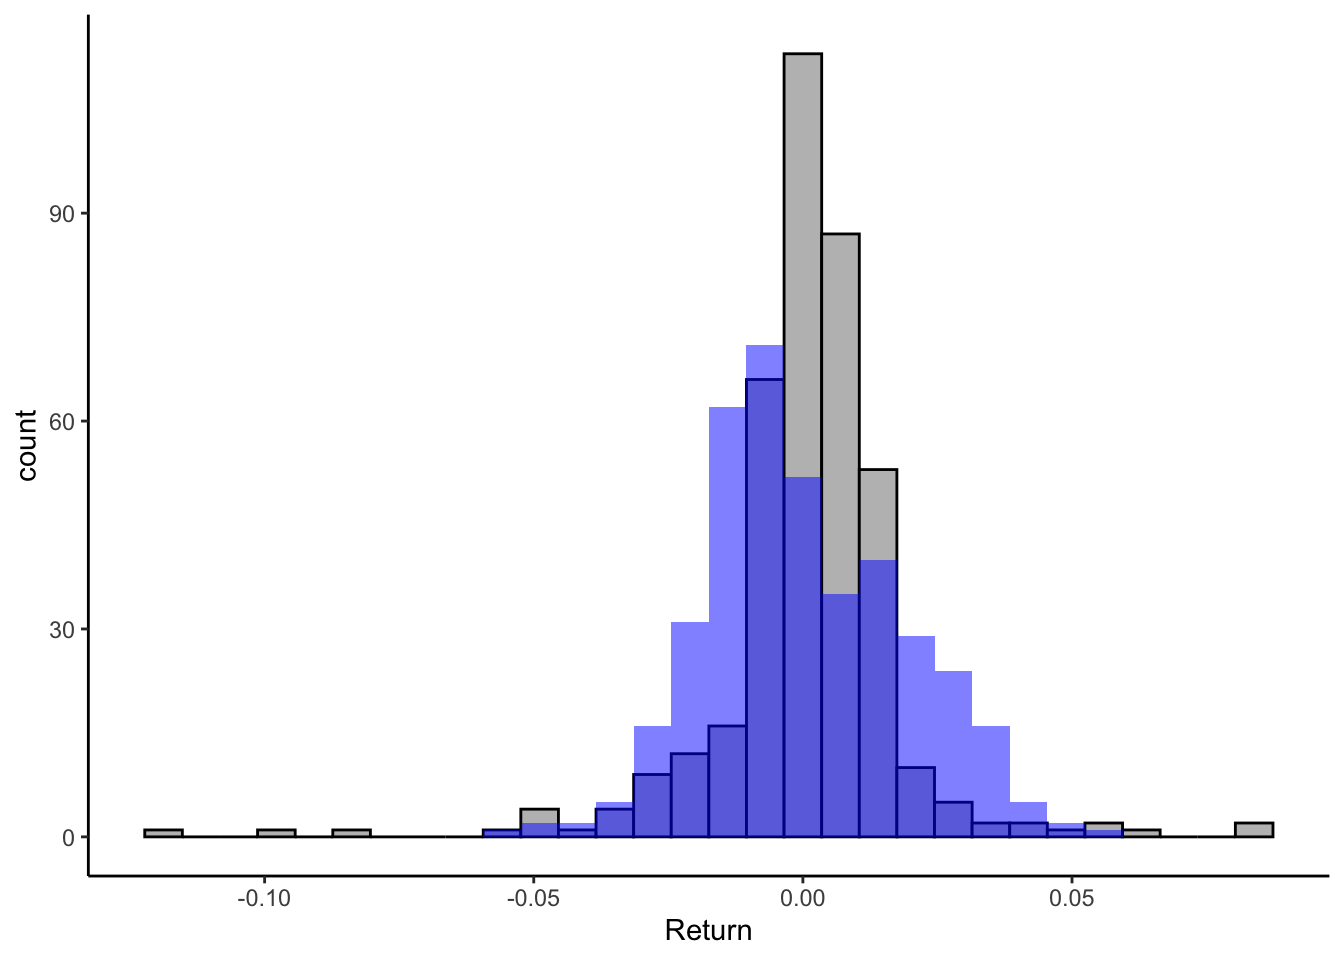
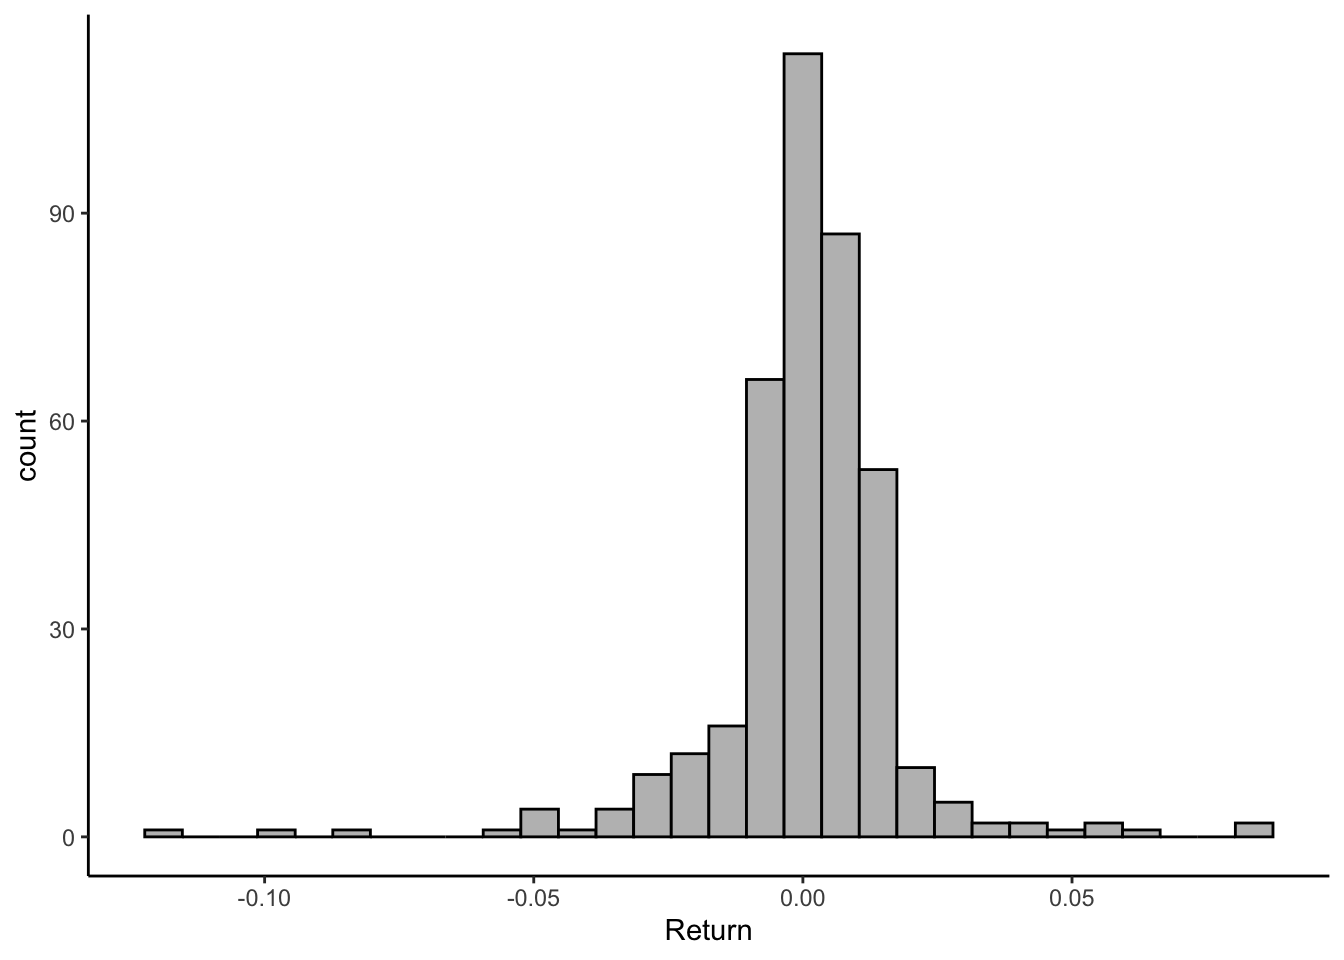
changes

Changed region(s): [[0.3438, 0.3438, 0.8438, 0.875]]

diff --git a/docs/Tools.html b/docs/Tools.html
@@ -288,7 +288,7 @@ window.Quarto = {
 
 
 <p>Business simulation is a type of computer-based modeling that allows us to experiment and analyze different business scenarios and strategies. Its appeal comes from being a cost-effective way to explore and test business decisions in production, marketing, finance, and operations, among many others.</p>
-<p>We will be using R to conduct business simulation. However, before building our simulation models, we must learn the tools to perform the analysis. In this module, we’ll learn how to store data in R, generate random numbers, use loops and conditionals to simulate real data.</p>
+<p>We will be using R to conduct business simulation. Before we can build our simulation models, we must learn the tools to perform the analysis. In this module, we’ll learn how to store data in R, generate random numbers, use loops and conditionals, and transform vectors to simulate real data.</p>
 <section id="storing-our-data-in-r" class="level2" data-number="2.1">
 <h2 data-number="2.1" class="anchored" data-anchor-id="storing-our-data-in-r"><span class="header-section-number">2.1</span> Storing Our Data in R</h2>
 <p>Objects, vectors, and data frames are all critical in the R programming language. They are helpful when storing and manipulating data in R. An <strong>object</strong> is a container for storing data and computations in R. It can store something as simple as a single integer or as informative as the output in regression analysis. The code below creates an object <em>x</em> that stores the number <span class="math inline">\(5\)</span>.</p>
@@ -392,11 +392,11 @@ window.Quarto = {
 <span id="cb5-5"><a href="#cb5-5" aria-hidden="true" tabindex="-1"></a>           <span class="at">Demand=</span><span class="fu">rbinom</span>(<span class="dv">5</span>,<span class="dv">100</span>,<span class="fl">0.7</span>)))</span></code><button title="Copy to Clipboard" class="code-copy-button"><i class="bi"></i></button></pre></div>
 <div class="cell-output cell-output-stdout">
 <pre><code>              Books Price Demand
-1      Frankenstein  9.50     71
-2           Dracula  5.78     73
-3         Moby Dick  6.34     73
-4 War Of The Worlds  5.67     75
-5           Beowulf  2.45     71</code></pre>
+1      Frankenstein  9.50     74
+2           Dracula  5.78     75
+3         Moby Dick  6.34     70
+4 War Of The Worlds  5.67     70
+5           Beowulf  2.45     67</code></pre>
 </div>
 </div>
 <p>The demand for the book is generated using the <code>rbinom()</code> function. The first input of the <code>rbinom()</code> function specifies how many random numbers are needed (<span class="math inline">\(5\)</span>), the second one specifies the number of trials in the experiment (<span class="math inline">\(100\)</span>), and the last one specifies the probability of success (<span class="math inline">\(0.7\)</span>). The bookstore can now assess the Monster Series’s revenues with these demands.</p>
@@ -413,20 +413,20 @@ window.Quarto = {
 <span id="cb7-5"><a href="#cb7-5" aria-hidden="true" tabindex="-1"></a>  <span class="fu">print</span>(Revenue)</span>
 <span id="cb7-6"><a href="#cb7-6" aria-hidden="true" tabindex="-1"></a>}</span></code><button title="Copy to Clipboard" class="code-copy-button"><i class="bi"></i></button></pre></div>
 <div class="cell-output cell-output-stdout">
-<pre><code>[1] 693.5
-[1] 693.5 462.4
-[1] 693.50 462.40 450.14
-[1] 693.50 462.40 450.14 453.60
-[1] 693.50 462.40 450.14 453.60 171.50</code></pre>
+<pre><code>[1] 627
+[1] 627.0 346.8
+[1] 627.00 346.80 424.78
+[1] 627.00 346.80 424.78 385.56
+[1] 627.00 346.80 424.78 385.56 191.10</code></pre>
 </div>
 </div>
 <p>The code above starts by creating an empty vector to store the revenue generated by each book. A for loop is then used to simulate the revenue for each book. The process starts by taking the first price in the <em>MS$Price</em> vector and multiplying it with a single random number drawn from the binomial distribution with <span class="math inline">\(100\)</span> trials and probability <span class="math inline">\(0.7\)</span> (our simulated demand). Note how the code combines the <em>Revenue</em> vector with the revenue generated by the simulation in the code <code>c(Revenue, i*rbinom(1,100,0.7)</code>. This process is repeated for every number in the <em>MS$Price</em> vector, leading to a final vector with each book’s revenues.</p>
-<p>Note that we can avoid the use of the for loop by combining he Demand and Price vectors. Generally speaking, <strong>vectorization</strong> allows us to perform an operation to the entire vector at once, rather than having to iterate through each element one by one. When possible try to vectorize the problem as this operation is more efficient than using for loops.</p>
+<p>We can avoid the use of the for loop by combining the Demand and Price vectors. Generally speaking, <strong>vectorization</strong> allows us to perform an operation to the entire vector at once, rather than having to iterate through each element one by one. When possible try to vectorize the problem as this operation is more efficient than using for loops.</p>
 <div class="cell">
 <div class="sourceCode cell-code" id="cb9"><pre class="sourceCode r code-with-copy"><code class="sourceCode r"><span id="cb9-1"><a href="#cb9-1" aria-hidden="true" tabindex="-1"></a>Revenue<span class="ot">&lt;-</span>MS<span class="sc">$</span>Demand<span class="sc">*</span>MS<span class="sc">$</span>Price</span>
 <span id="cb9-2"><a href="#cb9-2" aria-hidden="true" tabindex="-1"></a>Revenue</span></code><button title="Copy to Clipboard" class="code-copy-button"><i class="bi"></i></button></pre></div>
 <div class="cell-output cell-output-stdout">
-<pre><code>[1] 674.50 421.94 462.82 425.25 173.95</code></pre>
+<pre><code>[1] 703.00 433.50 443.80 396.90 164.15</code></pre>
 </div>
 </div>
 </section>
@@ -447,10 +447,10 @@ window.Quarto = {
 <span id="cb11-10"><a href="#cb11-10" aria-hidden="true" tabindex="-1"></a></span>
 <span id="cb11-11"><a href="#cb11-11" aria-hidden="true" tabindex="-1"></a><span class="fu">print</span>(demand)</span></code><button title="Copy to Clipboard" class="code-copy-button"><i class="bi"></i></button></pre></div>
 <div class="cell-output cell-output-stdout">
-<pre><code>[1] 88 94 79 71 76</code></pre>
+<pre><code>[1] 91 91 70 67 66</code></pre>
 </div>
 </div>
-<p>In the code above, the inner conditional checks whether the titles are either Frankenstein or Dracula. If so, the random binomial number is drawn with the probability <span class="math inline">\(0.9\)</span>. If not, it is drawn with probability <span class="math inline">\(0.7\)</span>. The for loop, goes through all the books in the series and adds a simulated demand. You can quickly realize that this becomes very efficient if the bookstore has an extensive collection of books. Below is our data frame with the new simulated values.</p>
+<p>In the code above, the inner conditional checks whether the titles are either Frankenstein or Dracula. If so, the random binomial number is drawn with the probability <span class="math inline">\(0.9\)</span>. If not, it is drawn with probability <span class="math inline">\(0.7\)</span>. The for loop, goes through all the books in the series and adds a simulated demand. Below is our data frame with the new simulated values.</p>
 <div class="cell">
 <div class="sourceCode cell-code" id="cb13"><pre class="sourceCode r code-with-copy"><code class="sourceCode r"><span id="cb13-1"><a href="#cb13-1" aria-hidden="true" tabindex="-1"></a>(MS<span class="ot">&lt;-</span><span class="fu">data.frame</span>(<span class="at">Books=</span><span class="fu">c</span>(<span class="st">"Frankenstein"</span>,<span class="st">"Dracula"</span>,</span>
 <span id="cb13-2"><a href="#cb13-2" aria-hidden="true" tabindex="-1"></a>                     <span class="st">"Moby Dick"</span>,</span>
@@ -459,21 +459,21 @@ window.Quarto = {
 <span id="cb13-5"><a href="#cb13-5" aria-hidden="true" tabindex="-1"></a>           <span class="at">Demand=</span>demand))</span></code><button title="Copy to Clipboard" class="code-copy-button"><i class="bi"></i></button></pre></div>
 <div class="cell-output cell-output-stdout">
 <pre><code>              Books Price Demand
-1      Frankenstein  9.50     88
-2           Dracula  5.78     94
-3         Moby Dick  6.34     79
-4 War Of The Worlds  5.67     71
-5           Beowulf  2.45     76</code></pre>
+1      Frankenstein  9.50     91
+2           Dracula  5.78     91
+3         Moby Dick  6.34     70
+4 War Of The Worlds  5.67     67
+5           Beowulf  2.45     66</code></pre>
 </div>
 </div>
-<p>We can simplify this calculation by using a function to modify the vector of books (i.e.&nbsp;vectorization). In particular, the <code>ifelse()</code> function allows us to take the <em>Books</em> variable and transform it to a vector of demands. The first argument of the <code>ifelse()</code> function is the logical condition (i.e.&nbsp;Books==“Frankenstein”| Books==“Dracula”), the second argument is the action to be taken when the condition holds true (i.e.&nbsp;<code>rbinom(length(MS$Books),100,0.9)</code>) and the last argument is the action to be taken when the condition does not hold (i.e.&nbsp;<code>rbinom(length(MS$Books),100,0.7)</code>). Here is simpler code to generate the demand of books.</p>
+<p>We can simplify this calculation by using a function to modify the vector of books (i.e.&nbsp;vectorization). In particular, the <code>ifelse()</code> function allows us to take the <em>Books</em> variable and transform it to a vector of demands. The first argument of the <code>ifelse()</code> function is the logical condition (i.e.&nbsp;Books==“Frankenstein”| Books==“Dracula”), the second argument is the action to be taken when the condition holds true (i.e.&nbsp;<code>rbinom(length(MS$Books),100,0.9)</code>) and the last argument is the action to be taken when the condition does not hold (i.e.&nbsp;<code>rbinom(length(MS$Books),100,0.7)</code>). Below is simpler code to generate the demand of books:</p>
 <div class="cell">
 <div class="sourceCode cell-code" id="cb15"><pre class="sourceCode r code-with-copy"><code class="sourceCode r"><span id="cb15-1"><a href="#cb15-1" aria-hidden="true" tabindex="-1"></a>demand<span class="ot">&lt;-</span><span class="fu">ifelse</span>(MS<span class="sc">$</span>Books<span class="sc">==</span><span class="st">"Frankenstein"</span><span class="sc">|</span> MS<span class="sc">$</span>Books<span class="sc">==</span><span class="st">"Dracula"</span>,</span>
 <span id="cb15-2"><a href="#cb15-2" aria-hidden="true" tabindex="-1"></a>               <span class="fu">rbinom</span>(<span class="fu">length</span>(MS<span class="sc">$</span>Books),<span class="dv">100</span>,<span class="fl">0.9</span>),</span>
 <span id="cb15-3"><a href="#cb15-3" aria-hidden="true" tabindex="-1"></a>               <span class="fu">rbinom</span>(<span class="fu">length</span>(MS<span class="sc">$</span>Books),<span class="dv">100</span>,<span class="fl">0.7</span>))</span>
 <span id="cb15-4"><a href="#cb15-4" aria-hidden="true" tabindex="-1"></a>demand</span></code><button title="Copy to Clipboard" class="code-copy-button"><i class="bi"></i></button></pre></div>
 <div class="cell-output cell-output-stdout">
-<pre><code>[1] 92 86 67 61 72</code></pre>
+<pre><code>[1] 87 92 78 73 67</code></pre>
 </div>
 </div>
 </section>
@@ -588,7 +588,7 @@ window.Quarto = {
 </div>
 </div>
 <p>Given that cars are discrete, we use the discrete uniform distribution random number generator from the <code>extraDistr</code> package. The code sets a for loop that generates seven numbers (one for each day of the week). The conditional ensures that the first five numbers generated (weekdays) draw numbers between <span class="math inline">\(1000\)</span> and <span class="math inline">\(1200\)</span> and that the last two numbers (weekends) are drawn within the (<span class="math inline">\(1400\)</span>,<span class="math inline">\(1600\)</span>) interval. The <code>set.seed()</code> function is used so that the reader can replicate the values generated if needed.</p>
-<p>Below, the table is reproduced once more, but with the simulated values. Can you identify the simulated values from the ones provided by the VA Department of Transportation?</p>
+<p>Below, the table is reproduced once more, but with the simulated values. Can you identify the simulated values from the ones provided by the VA Department of Transportation? Can you generate a similar simulation by just using vector operations and the <code>ifelse()</code>function?</p>
 <table class="caption-top table">
 <thead>
 <tr class="header">
@@ -725,21 +725,27 @@ Suggested Answer
 <div class="cell">
 <div class="sourceCode cell-code" id="cb26"><pre class="sourceCode r code-with-copy"><code class="sourceCode r"><span id="cb26-1"><a href="#cb26-1" aria-hidden="true" tabindex="-1"></a>entry_status<span class="ot">&lt;-</span><span class="fu">ifelse</span>(ages<span class="sc">&gt;=</span><span class="dv">21</span>,<span class="st">"Access Granted"</span>,<span class="st">"Access Denied"</span>)</span></code><button title="Copy to Clipboard" class="code-copy-button"><i class="bi"></i></button></pre></div>
 </div>
-Lastly, we can report the percentage of underage people that are attempting to enter the bar is 58%
+<p>Lastly, we can report the percentage of underage people that are attempting to enter the bar.</p>
+<div class="cell">
+<div class="sourceCode cell-code" id="cb27"><pre class="sourceCode r code-with-copy"><code class="sourceCode r"><span id="cb27-1"><a href="#cb27-1" aria-hidden="true" tabindex="-1"></a><span class="fu">round</span>(<span class="fu">sum</span>(entry_status<span class="sc">==</span><span class="st">"Access Denied"</span>)<span class="sc">/</span><span class="fu">length</span>(entry_status),<span class="dv">2</span>)</span></code><button title="Copy to Clipboard" class="code-copy-button"><i class="bi"></i></button></pre></div>
+<div class="cell-output cell-output-stdout">
+<pre><code>[1] 0.58</code></pre>
+</div>
+</div>
 </details>
 <ol start="3" type="1">
 <li>Franklin and Templeton wants you to generate 4 simulated returns for the SPY (an ETF that tracks the S&amp;P 500). They provide you with the following data and histogram:</li>
 </ol>
 <div class="cell">
-<div class="sourceCode cell-code" id="cb27"><pre class="sourceCode r code-with-copy"><code class="sourceCode r"><span id="cb27-1"><a href="#cb27-1" aria-hidden="true" tabindex="-1"></a><span class="fu">library</span>(tidyverse)</span>
-<span id="cb27-2"><a href="#cb27-2" aria-hidden="true" tabindex="-1"></a>data<span class="ot">&lt;-</span><span class="fu">read_csv</span>(<span class="st">"https://jagelves.github.io/Data/returns.csv"</span>)</span>
-<span id="cb27-3"><a href="#cb27-3" aria-hidden="true" tabindex="-1"></a>data <span class="sc">%&gt;%</span> <span class="fu">filter</span>(Stock<span class="sc">==</span><span class="st">"SPY"</span>) <span class="sc">%&gt;%</span> <span class="fu">ggplot</span>() <span class="sc">+</span></span>
-<span id="cb27-4"><a href="#cb27-4" aria-hidden="true" tabindex="-1"></a>  <span class="fu">geom_histogram</span>(<span class="fu">aes</span>(<span class="at">x=</span>Return), <span class="at">bg=</span><span class="st">"grey"</span>,<span class="at">col=</span><span class="st">"black"</span>) <span class="sc">+</span></span>
-<span id="cb27-5"><a href="#cb27-5" aria-hidden="true" tabindex="-1"></a>  <span class="fu">theme_classic</span>()</span></code><button title="Copy to Clipboard" class="code-copy-button"><i class="bi"></i></button></pre></div>
+<div class="sourceCode cell-code" id="cb29"><pre class="sourceCode r code-with-copy"><code class="sourceCode r"><span id="cb29-1"><a href="#cb29-1" aria-hidden="true" tabindex="-1"></a><span class="fu">library</span>(tidyverse)</span>
+<span id="cb29-2"><a href="#cb29-2" aria-hidden="true" tabindex="-1"></a>data<span class="ot">&lt;-</span><span class="fu">read_csv</span>(<span class="st">"https://jagelves.github.io/Data/returns.csv"</span>)</span>
+<span id="cb29-3"><a href="#cb29-3" aria-hidden="true" tabindex="-1"></a>data <span class="sc">%&gt;%</span> <span class="fu">filter</span>(Stock<span class="sc">==</span><span class="st">"SPY"</span>) <span class="sc">%&gt;%</span> <span class="fu">ggplot</span>() <span class="sc">+</span></span>
+<span id="cb29-4"><a href="#cb29-4" aria-hidden="true" tabindex="-1"></a>  <span class="fu">geom_histogram</span>(<span class="fu">aes</span>(<span class="at">x=</span>Return), <span class="at">bg=</span><span class="st">"grey"</span>,<span class="at">col=</span><span class="st">"black"</span>) <span class="sc">+</span></span>
+<span id="cb29-5"><a href="#cb29-5" aria-hidden="true" tabindex="-1"></a>  <span class="fu">theme_classic</span>()</span></code><button title="Copy to Clipboard" class="code-copy-button"><i class="bi"></i></button></pre></div>
 <div class="cell-output-display">
 <div>
 <figure class="figure">
-<p><img src="Tools_files/figure-html/unnamed-chunk-16-1.png" class="img-fluid figure-img" width="672"></p>
+<p><img src="Tools_files/figure-html/unnamed-chunk-17-1.png" class="img-fluid figure-img" width="672"></p>
 </figure>
 </div>
 </div>
@@ -751,18 +757,39 @@ Suggested Answer
 </summary>
 <p>The distribution of returns looks normal. We can use the mean and the standard deviation of the sample provided as inputs in the <code>rnorm()</code> function.</p>
 <div class="cell">
-<div class="sourceCode cell-code" id="cb29"><pre class="sourceCode r code-with-copy"><code class="sourceCode r"><span id="cb29-1"><a href="#cb29-1" aria-hidden="true" tabindex="-1"></a>data <span class="sc">%&gt;%</span> <span class="fu">filter</span>(Stock<span class="sc">==</span><span class="st">"SPY"</span>) <span class="sc">%&gt;%</span> <span class="fu">ggplot</span>() <span class="sc">+</span></span>
-<span id="cb29-2"><a href="#cb29-2" aria-hidden="true" tabindex="-1"></a>  <span class="fu">geom_histogram</span>(<span class="fu">aes</span>(<span class="at">x=</span>Return), <span class="at">bg=</span><span class="st">"grey"</span>,<span class="at">col=</span><span class="st">"black"</span>) <span class="sc">+</span></span>
-<span id="cb29-3"><a href="#cb29-3" aria-hidden="true" tabindex="-1"></a>  <span class="fu">geom_histogram</span>(<span class="fu">aes</span>(<span class="at">x=</span><span class="fu">rnorm</span>(<span class="fu">length</span>(Return),<span class="fu">mean</span>(Return),</span>
-<span id="cb29-4"><a href="#cb29-4" aria-hidden="true" tabindex="-1"></a>                             <span class="fu">sd</span>(Return))), <span class="at">bg=</span><span class="st">"blue"</span>,</span>
-<span id="cb29-5"><a href="#cb29-5" aria-hidden="true" tabindex="-1"></a>                 <span class="at">alpha=</span><span class="fl">0.5</span>) <span class="sc">+</span></span>
-<span id="cb29-6"><a href="#cb29-6" aria-hidden="true" tabindex="-1"></a>  <span class="fu">theme_classic</span>()</span></code><button title="Copy to Clipboard" class="code-copy-button"><i class="bi"></i></button></pre></div>
+<div class="sourceCode cell-code" id="cb31"><pre class="sourceCode r code-with-copy"><code class="sourceCode r"><span id="cb31-1"><a href="#cb31-1" aria-hidden="true" tabindex="-1"></a>data <span class="sc">%&gt;%</span> <span class="fu">filter</span>(Stock<span class="sc">==</span><span class="st">"SPY"</span>) <span class="sc">%&gt;%</span> <span class="fu">ggplot</span>() <span class="sc">+</span></span>
+<span id="cb31-2"><a href="#cb31-2" aria-hidden="true" tabindex="-1"></a>  <span class="fu">geom_histogram</span>(<span class="fu">aes</span>(<span class="at">x=</span>Return), <span class="at">bg=</span><span class="st">"grey"</span>,<span class="at">col=</span><span class="st">"black"</span>) <span class="sc">+</span></span>
+<span id="cb31-3"><a href="#cb31-3" aria-hidden="true" tabindex="-1"></a>  <span class="fu">geom_histogram</span>(<span class="fu">aes</span>(<span class="at">x=</span><span class="fu">rnorm</span>(<span class="fu">length</span>(Return),<span class="fu">mean</span>(Return),</span>
+<span id="cb31-4"><a href="#cb31-4" aria-hidden="true" tabindex="-1"></a>                             <span class="fu">sd</span>(Return))), <span class="at">bg=</span><span class="st">"blue"</span>,</span>
+<span id="cb31-5"><a href="#cb31-5" aria-hidden="true" tabindex="-1"></a>                 <span class="at">alpha=</span><span class="fl">0.5</span>) <span class="sc">+</span></span>
+<span id="cb31-6"><a href="#cb31-6" aria-hidden="true" tabindex="-1"></a>  <span class="fu">theme_classic</span>()</span></code><button title="Copy to Clipboard" class="code-copy-button"><i class="bi"></i></button></pre></div>
 <div class="cell-output-display">
 <div>
 <figure class="figure">
-<p><img src="Tools_files/figure-html/unnamed-chunk-17-1.png" class="img-fluid figure-img" width="672"></p>
+<p><img src="Tools_files/figure-html/unnamed-chunk-18-1.png" class="img-fluid figure-img" width="672"></p>
 </figure>
 </div>
+</div>
+</div>
+<p>As you can see the simulated demand follows the pattern of the sample returns (i.e.&nbsp;the normal distribution). To retrieve the mean and standard deviation of each investmenr we can use the code below:</p>
+<div class="cell">
+<div class="sourceCode cell-code" id="cb32"><pre class="sourceCode r code-with-copy"><code class="sourceCode r"><span id="cb32-1"><a href="#cb32-1" aria-hidden="true" tabindex="-1"></a>data <span class="sc">%&gt;%</span> <span class="fu">group_by</span>(Stock) <span class="sc">%&gt;%</span> </span>
+<span id="cb32-2"><a href="#cb32-2" aria-hidden="true" tabindex="-1"></a>  <span class="fu">summarise</span>(<span class="at">Average=</span><span class="fu">mean</span>(Return),</span>
+<span id="cb32-3"><a href="#cb32-3" aria-hidden="true" tabindex="-1"></a>            <span class="at">SD=</span><span class="fu">sd</span>(Return))</span></code><button title="Copy to Clipboard" class="code-copy-button"><i class="bi"></i></button></pre></div>
+<div class="cell-output cell-output-stdout">
+<pre><code># A tibble: 3 × 3
+  Stock  Average     SD
+  &lt;chr&gt;    &lt;dbl&gt;  &lt;dbl&gt;
+1 AAPL  0.00173  0.0257
+2 SPY   0.000828 0.0177
+3 TSLA  0.00511  0.0502</code></pre>
+</div>
+</div>
+<p>Lastly, we can now use the mean and the standard deviation of SPY to simulate four returns:</p>
+<div class="cell">
+<div class="sourceCode cell-code" id="cb34"><pre class="sourceCode r code-with-copy"><code class="sourceCode r"><span id="cb34-1"><a href="#cb34-1" aria-hidden="true" tabindex="-1"></a><span class="fu">rnorm</span>(<span class="dv">4</span>,<span class="fl">0.00173</span>,<span class="fl">0.025667</span>)</span></code><button title="Copy to Clipboard" class="code-copy-button"><i class="bi"></i></button></pre></div>
+<div class="cell-output cell-output-stdout">
+<pre><code>[1] -0.02848201 -0.01362113  0.02413823 -0.01611987</code></pre>
 </div>
 </div>
 </details>
